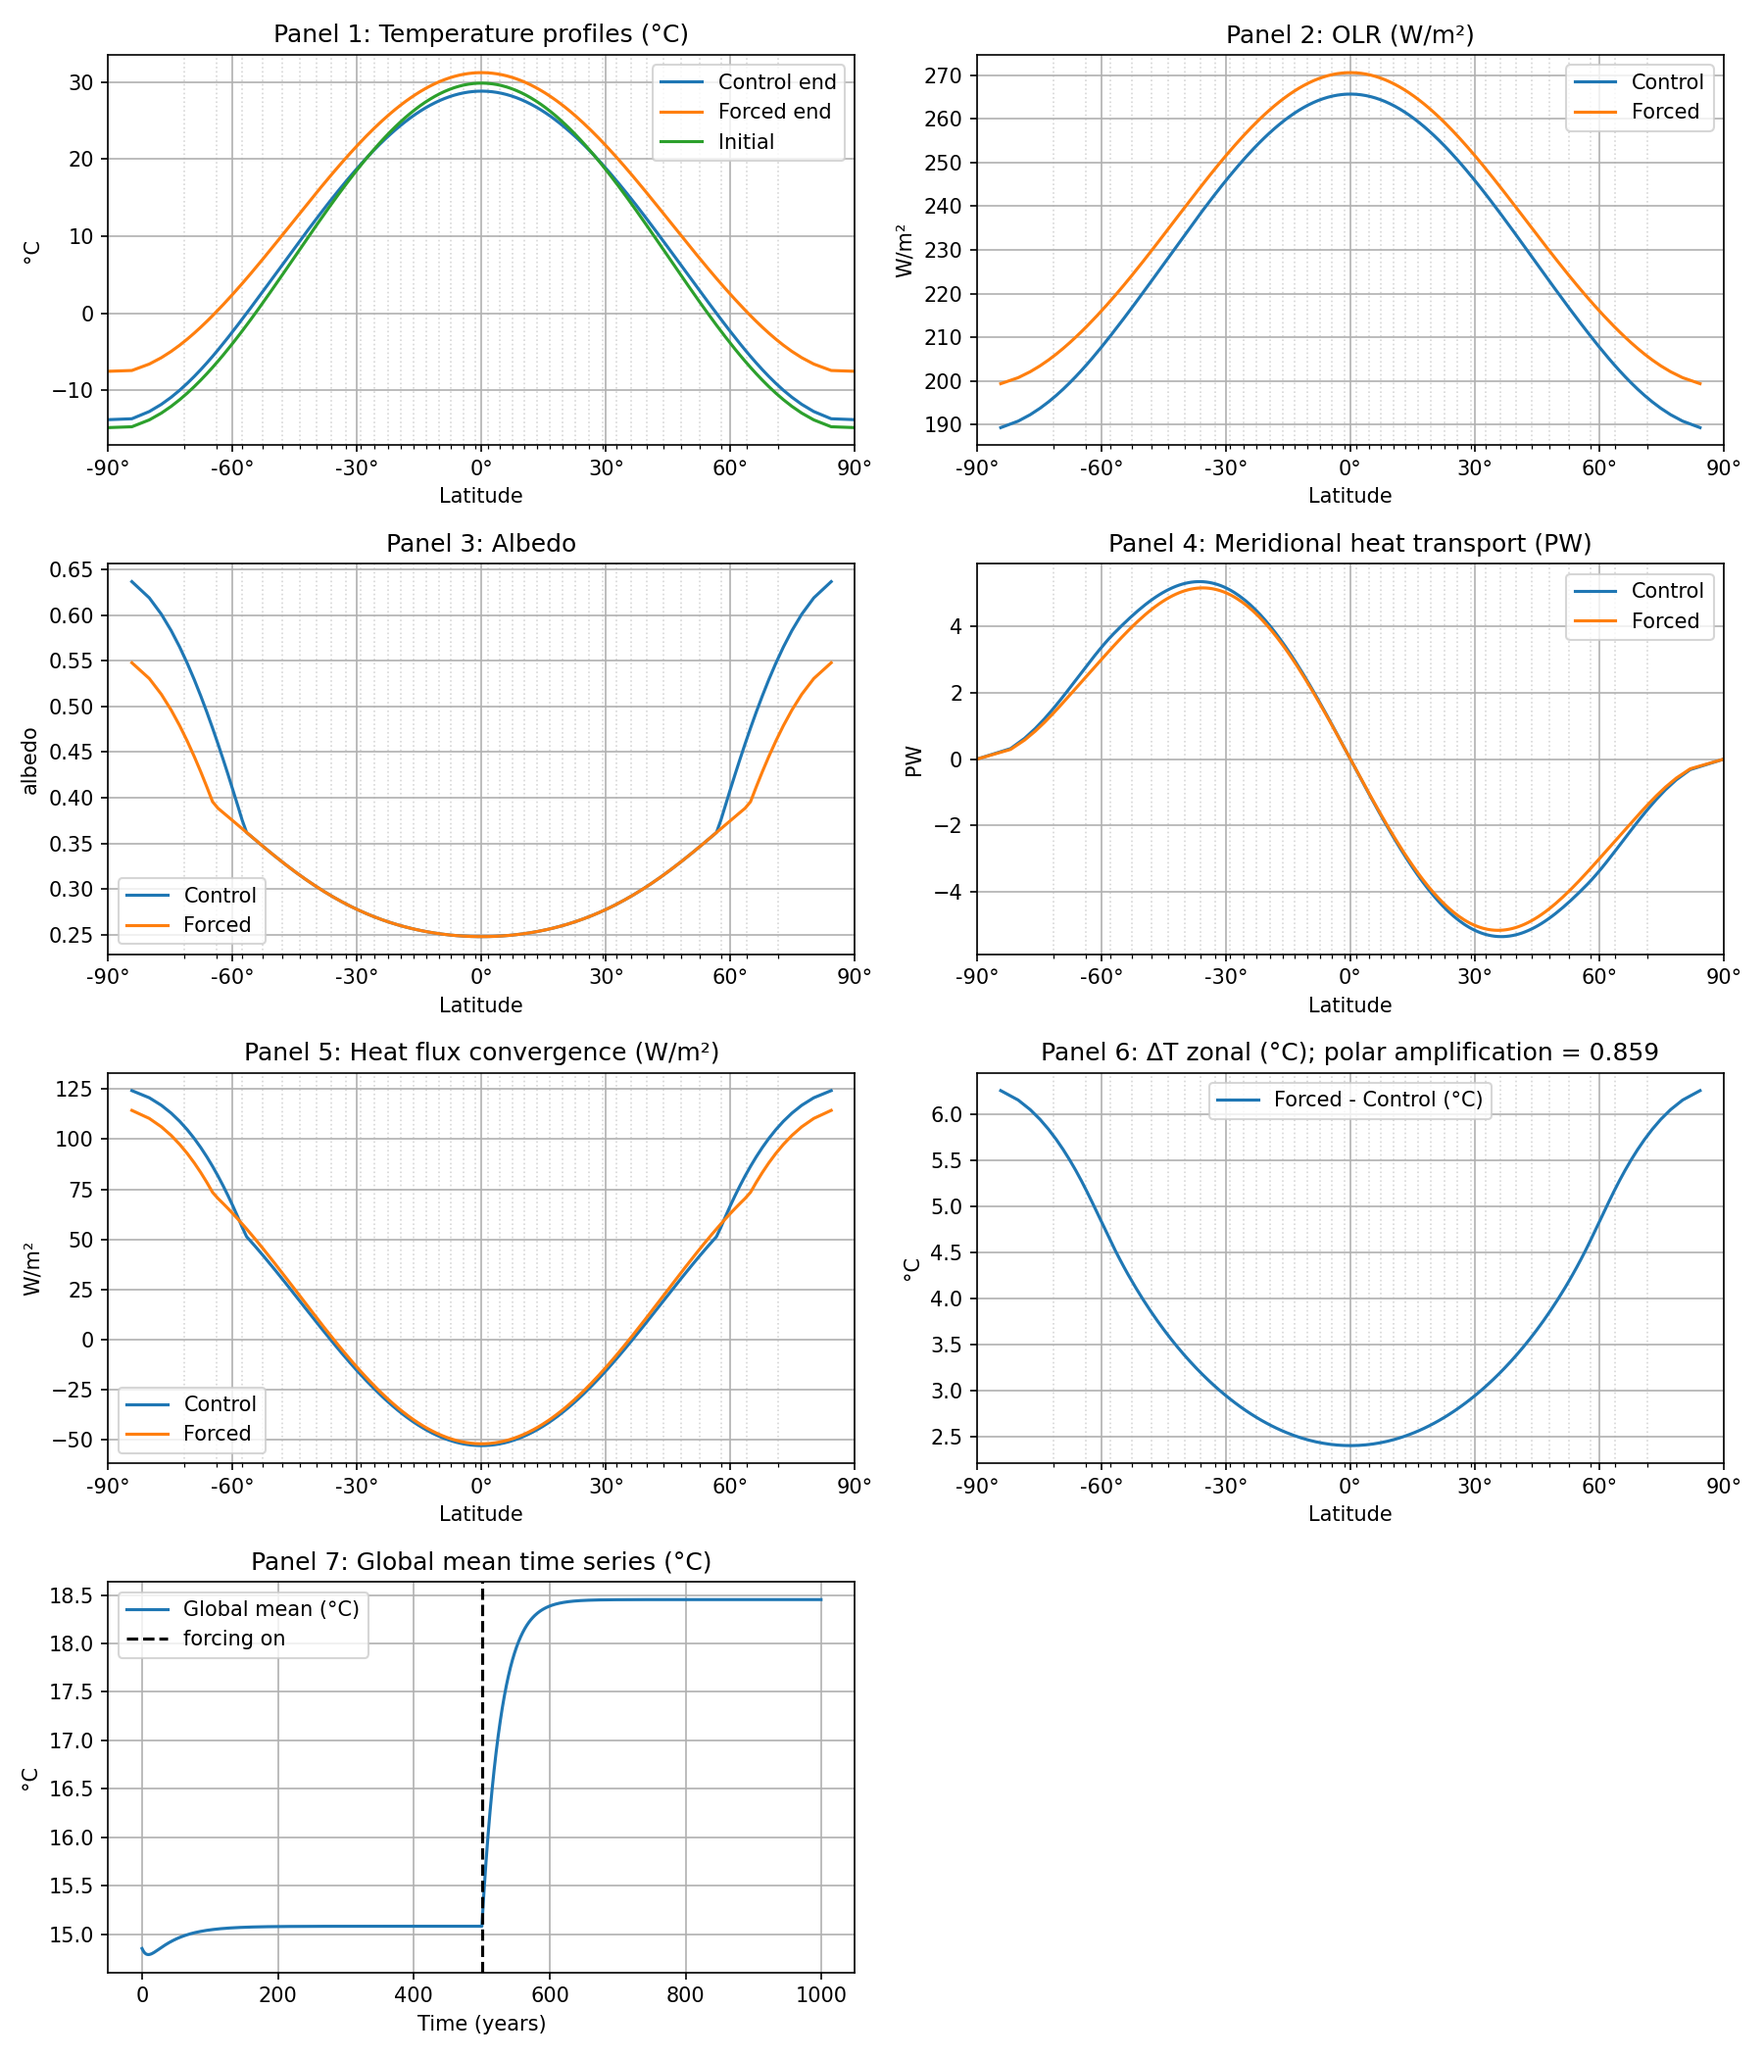
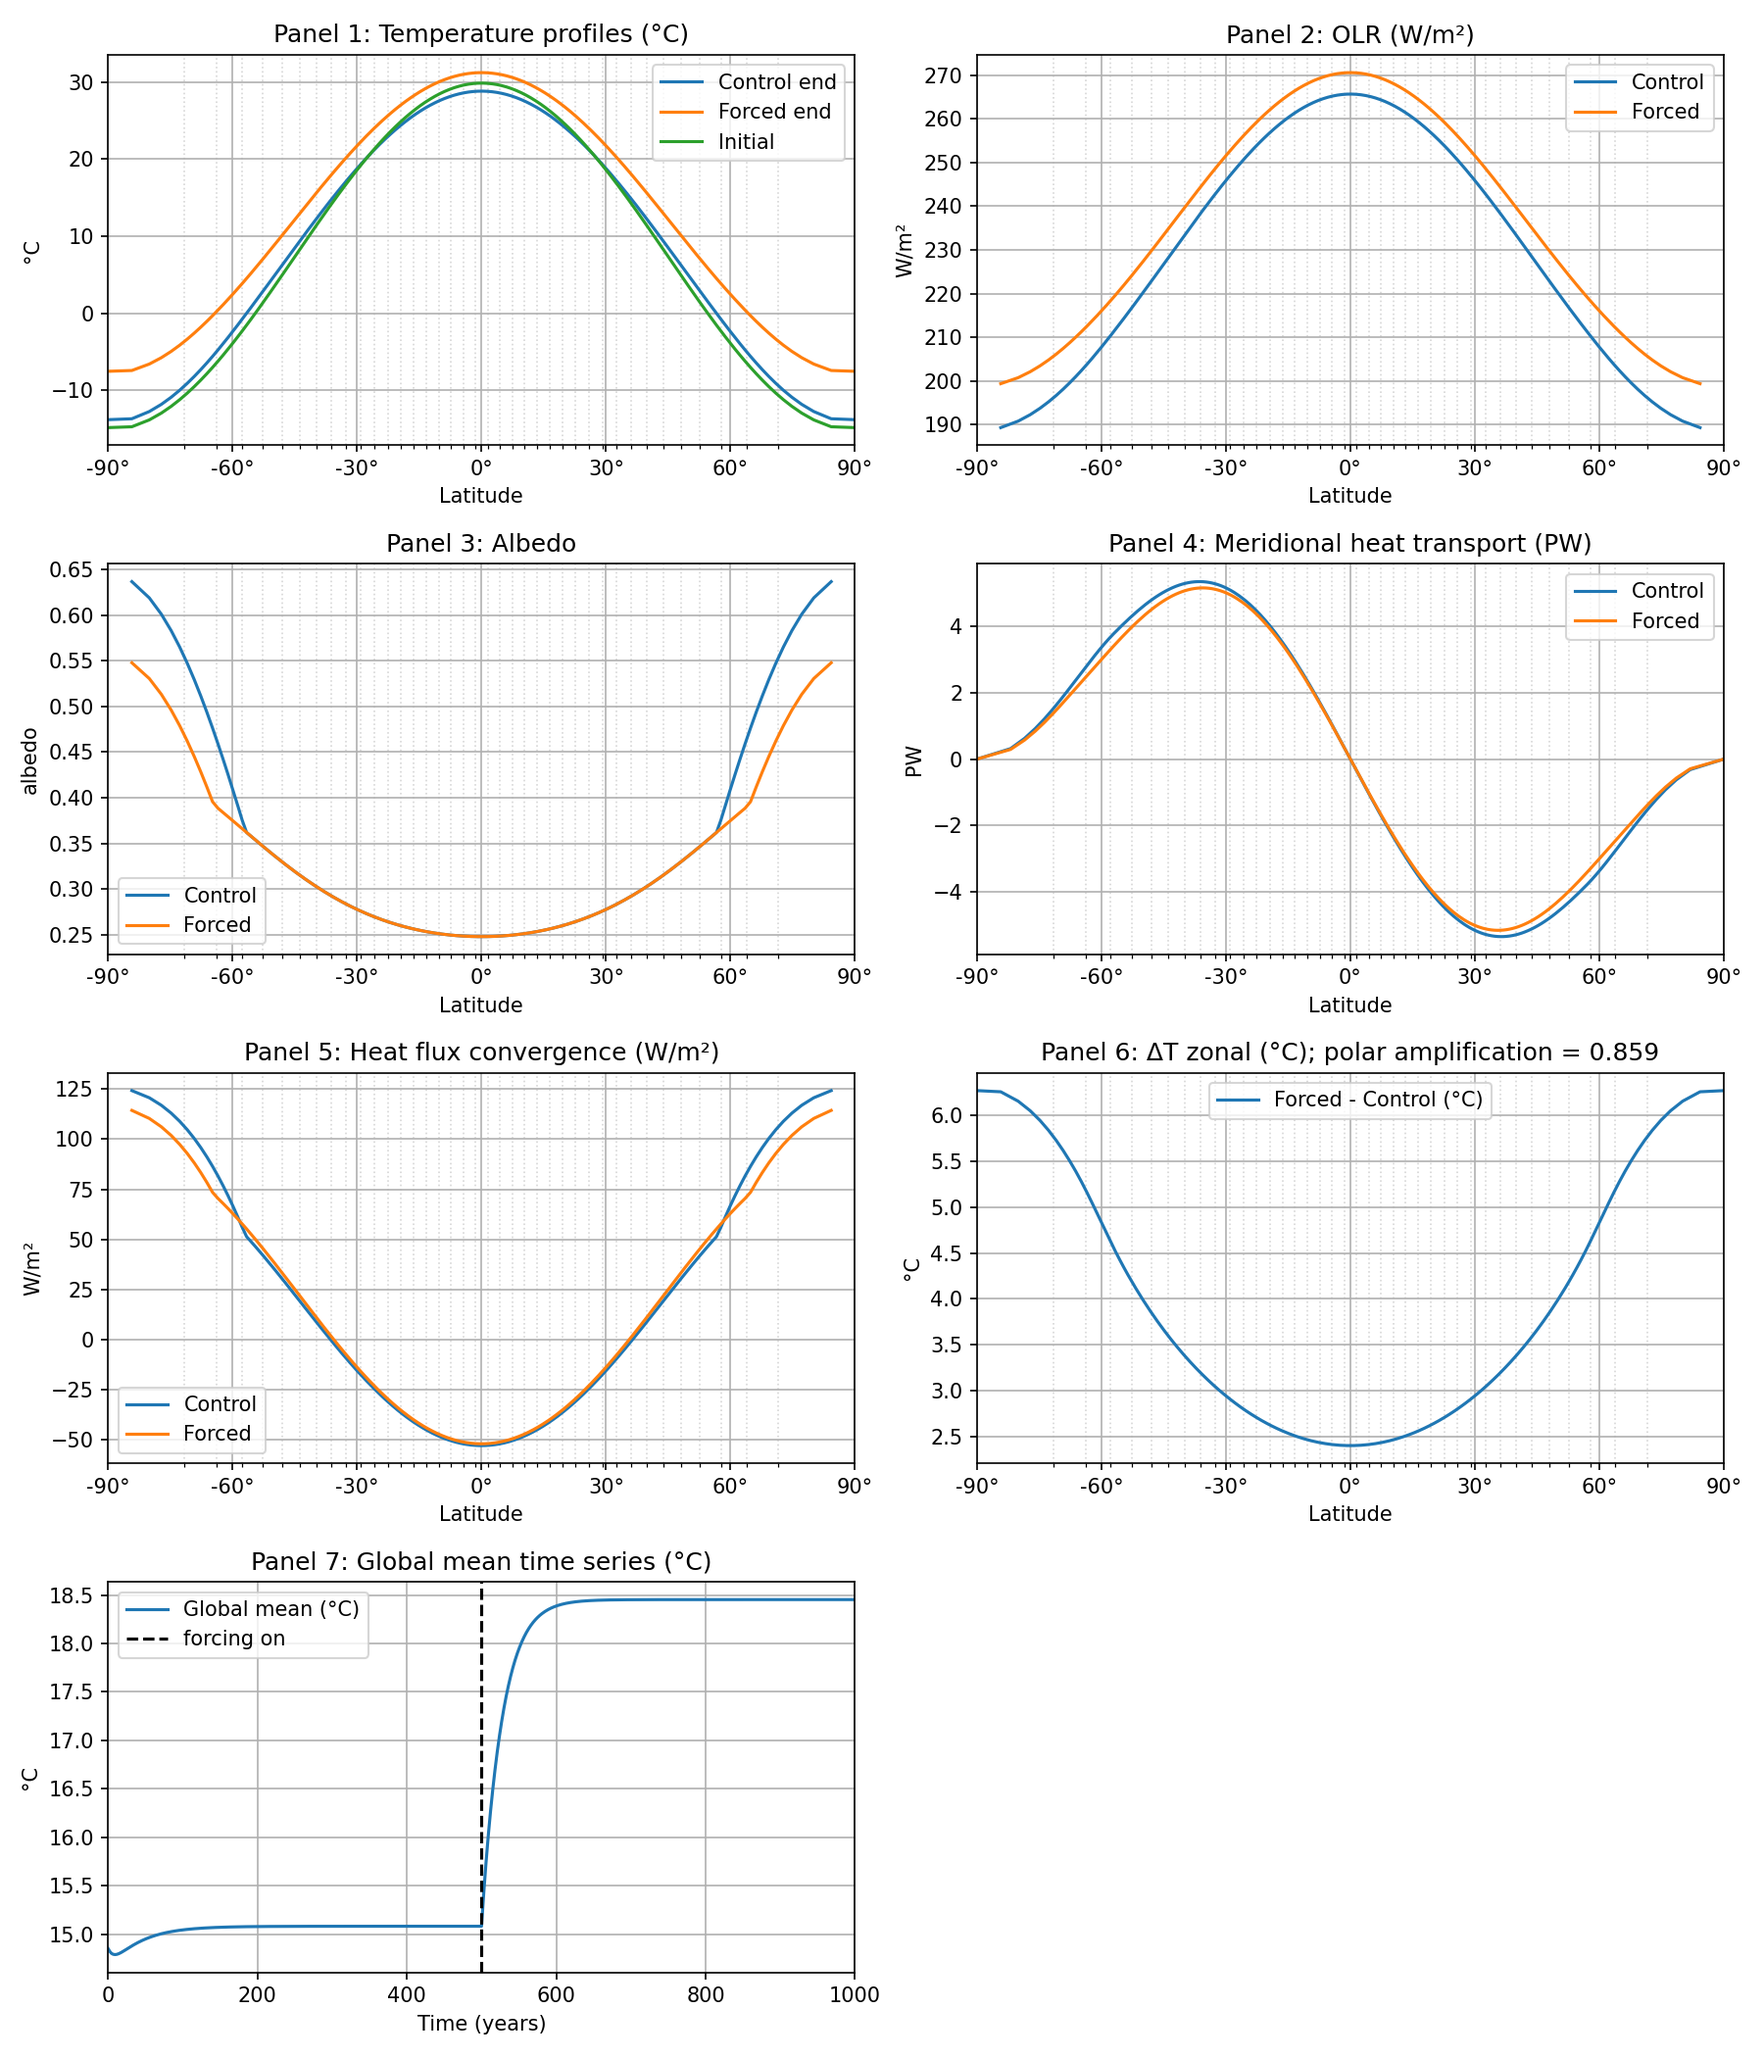
Added function descriptions and made changes to output

diff --git a/ebm.py b/ebm.py
@@ -39,7 +39,12 @@ DELTA_T_MIN = 10.0               # K (lower bound)
 A_PROFILE = 45.0                 # K
 
 # ---------------- Tridiagonal solver ----------------
-def thomas_solve(a, b, c, d):
+def thomas_solve(a, b, c, d): #If to slow, replace with scipy.linalg.solve_banded
+    """Solve tridiagonal system Ax = d with A defined by diagonals a,b,c using Thomas algorithm.
+    a: lower diagonal (length n but a[0] unused)
+    b: main diagonal (length n)
+    c: upper diagonal (length n but c[-1] unused)
+    d: right-hand side (length n)"""
     n = len(d)
     ac, bc, cc, dc = map(np.array, (a, b, c, d))  # make copies to store modified coefficients
     # Forward elimination: modify coefficients
@@ -61,15 +66,15 @@ def Q_x(x, S):
     dx = x[1] - x[0]
     x_left = x - 0.5 * dx
     x_right = x + 0.5 * dx
-    return 0.25 * S * (1.0 - 0.241 * (x_right**3 - x_left**3 - (x_right - x_left)) / (dx))
+    return 0.25 * S * (1.0 - 0.241 * (x_right**3 - x_left**3 - (x_right - x_left)) / dx)
 
 def albedo_from_T(T, x, k1):
-    """Equation (12): effective albedo with ice fraction fi = k1*(273-T) clipped to [0,1]."""
+    """Equation (12): effective albedo with ice fraction f_i = k1*(273-T) clipped to [0,1]."""
     alpha_a = 0.2 + 0.08 * x**2
-    fi = np.clip(k1 * (273.0 - T), 0.0, 1.0)
-    alpha_s = 0.60 * fi + (1.0 - fi) * (0.1 + 0.15 * x**4)
-    Aa = 0.32 * (1.0 - 0.85 * x**2)
-    alpha = alpha_a + alpha_s - alpha_a * alpha_s - Aa * alpha_s
+    f_i = np.clip(k1 * (273.0 - T), 0.0, 1.0)
+    alpha_s = 0.60 * f_i + (1.0 - f_i) * (0.1 + 0.15 * x**4)
+    A_a = 0.32 * (1.0 - 0.85 * x**2)
+    alpha = alpha_a + alpha_s - alpha_a * alpha_s - A_a * alpha_s
     return np.minimum(alpha, 0.7)
 
 def deltaT_of_Ts(Ts, k3):
@@ -78,6 +83,17 @@ def deltaT_of_Ts(Ts, k3):
 
 # ---------------- Diffusion operator L ≈ ∂x[D(1-x²) ∂x] ----------------
 def build_diffusion_tridiag(nx, x, D):
+    """Build tridiagonal representation of diffusion operator L with diffusivity D (W m⁻² K⁻¹) on borders with nx cell points at x = sin(lat).
+
+    Parameters
+        nx: number of cell points
+        x: array of sin(lat) at cell centers (linear spacing)
+        D: diffusivity (W m⁻² K⁻¹)
+
+    Returns
+        a, b, c: lower, main and upper diagonals of L (arrays of length nx)
+            a[0] and c[-1] are unused (=0)
+    """
     dx = x[1] - x[0]
     a = np.zeros(nx); b = np.zeros(nx); c = np.zeros(nx)
 
@@ -87,11 +103,12 @@ def build_diffusion_tridiag(nx, x, D):
     
     # interior contributions
     a[1:] = w_half / dx**2     # lower diagonal
-    c[:-1] = w_half / dx**2      # upper diagonal
-    b = -(a + c)                    # main diagonal
+    c[:-1] = w_half / dx**2    # upper diagonal
+    b = -(a + c)               # main diagonal
     return a, b, c
 
 def apply_L_to_T(a, b, c, T):
+    """Apply diffusion (tri-diagonal) operator L defined by diagonals a,b,c to temperature profile T."""
     out = b * T
     out[1:]  += a[1:] * T[:-1]   # lower diagonal contribution
     out[:-1] += c[:-1] * T[1:]   # upper diagonal contribution
@@ -100,7 +117,7 @@ def apply_L_to_T(a, b, c, T):
 
 # ---------------- Diagnostics helpers ----------------
 def meridional_transport_PW(T, x, D):
-    """Calculate meridional heat transport HMTrans (PW = 10¹⁵ W) from temperature profile T (K) at x = sin(lat) with diffusivity D (W m⁻² K⁻¹)."""
+    """Calculate meridional heat transport HMTrans (PW = 10¹⁵ W) at boundaries from temperature profile T (K) at x = sin(lat) with diffusivity D (W m⁻² K⁻¹)."""
     # dTdx = np.gradient(T, x)
     dTdx = np.r_[0, (T[1:] - T[:-1]) / (x[1] - x[0]), 0]
     x_borders = np.r_[-1, (x[1:] + x[:-1]) / 2, 1]
@@ -111,18 +128,22 @@ def meridional_transport_PW(T, x, D):
 def global_mean(T):
     return np.mean(T)
 
-def poles_temperature(T, x):
+def poles_temperature(T):
     """Return temperature at poles (K) by extrapolation since T is at cell centers. Extrapolates by a quadratic fit with 0 gradient at poles.
     
     Parameters
         T: array of temperatures at cell centers
-        x: array of sin(lat) at cell centers (linear spacing)
         
     Returns
         (T_south, T_north) temperatures at south and north poles (K)"""
-    return (9*T[0] - T[1]) / 8.0, (9*T[-1] - T[-2]) / 8.0
+    return (9*T[0] - T[1]) / 8.0, (9*T[-1] - T[-2]) / 8.0 # Formula can be easily found be Taylor expansion (error is O(dx^3))
 
 def simulation_diagnostics(x, T, params):
+    """Calculate diagnostics from temperature profile T (K) at x = sin(lat) with model parameters params.
+
+    Returns
+        dict: diagnostic values
+    """
     alpha = albedo_from_T(T, x, k1=params['k1'])
     dTloc = deltaT_of_Ts(T, k3=params['k3'])
     olr = SIGMA * (T - dTloc)**4
@@ -131,11 +152,28 @@ def simulation_diagnostics(x, T, params):
     conv = apply_L_to_T(aL, bL, cL, T)     # W/m² (convergence)
     MHTrans_PW = meridional_transport_PW(T, x, D) # PW = 10^15 W
     T_mean = global_mean(T)
-    T_poles = poles_temperature(T, x)
-    return dict(T=T, alpha=alpha, olr=olr, conv=conv, MHTrans_PW=MHTrans_PW, D=D, T_mean=T_mean, T_poles=T_poles)
+    T_poles = poles_temperature(T)
+    Q = Q_x(x, params['S'])
+    return dict(T=T, alpha=alpha, olr=olr, conv=conv, MHTrans_PW=MHTrans_PW, D=D, T_mean=T_mean, T_poles=T_poles, Q=Q)
 
 # ---------------- Single simulation (Crank–Nicolson for diffusion) -----------
 def run_simulation(params, years, nx, dt_years, Tinit=None):
+    """Run EBM simulation with model parameters params for given years, grid points nx and timestep dt_years.
+
+    Parameters
+        params: dict with model parameters k1, k2, k3, D0, T0, S, F
+        years: number of years to run
+        nx: number of grid points
+        dt_years: timestep in years
+        Tinit: initial temperature profile (K) at cell centers (optional, otherwise uses default initial profile)
+
+    Returns
+        dict with keys:
+        x: array of sin(lat) at cell centers
+        Tg: array of global mean temperature time series (°C)
+        T_init, alpha_init, olr_init, conv_init, MHTrans_PW_init, D_init, T_mean_init, T_poles_init: initial diagnostics
+        T_end, alpha_end, olr_end, conv_end, MHTrans_PW_end, D_end, T_mean_end, T_poles_end: end-state diagnostics
+    """
     dx = 2.0 / nx
     x = np.linspace(-1.0 + dx/2, 1.0 - dx/2, nx) # sin(lat) at cell centers
 
@@ -146,15 +184,16 @@ def run_simulation(params, years, nx, dt_years, Tinit=None):
 
     #Initial diagnostics
     init_diag = simulation_diagnostics(x, T, params)
-    init_diag = {key + "_init": value for key, value in init_diag.items()}
+    init_diag = {key + "_init": value for key, value in init_diag.items()} # rename keys
 
 
     dt = dt_years * SECONDS_PER_YEAR
     nsteps = int(round(years / dt_years))
 
     Tg_series = []
+    Tglob = global_mean(T)
 
-    for i in range(nsteps):
+    for _ in range(nsteps):
         # Explicit radiative terms
         Q = Q_x(x, params['S'])
         alpha = albedo_from_T(T, x, params['k1'])
@@ -164,7 +203,6 @@ def run_simulation(params, years, nx, dt_years, Tinit=None):
         rad_term = absorbed - olr + params['F']
 
         # Diffusivity depends on global mean temperature
-        Tglob = global_mean(T)
         D = params['D0'] * max(0.5, 1.0 + params['k2'] * (Tglob - T00))
 
         # Build L and do Crank–Nicolson step
@@ -176,12 +214,13 @@ def run_simulation(params, years, nx, dt_years, Tinit=None):
         bA =  1.0 - 0.5 * coef * bL
         cA = -0.5 * coef * cL
         T = thomas_solve(aA, bA, cA, rhs)
+        Tglob = global_mean(T)
 
         Tg_series.append(Tglob - 273.15)  # °C
 
     # End-state diagnostics
     end_diag = simulation_diagnostics(x, T, params)
-    end_diag = {key + "_end": value for key, value in end_diag.items()}
+    end_diag = {key + "_end": value for key, value in end_diag.items()} # rename keys
 
     return {"x": x, "Tg": np.array(Tg_series), **init_diag, **end_diag}
 
@@ -213,7 +252,7 @@ def main():
 
     # Print model parameters
     print(textwrap.dedent(f"""
-    === EBM Model Parameters ===
+    === EBM Model Parameters =======
     k1 (ice albedo sensitivity) \t: {base['k1']}
     k2 (diffusivity sensitivity)\t: {base['k2']}
     k3 (lapse rate sensitivity) \t: {base['k3']}
@@ -236,8 +275,14 @@ def main():
     # Common axes
     x = ctrl['x']; lat = np.degrees(np.arcsin(x))
 
+    #Extended temperature profiles including poles
+    lat_ext = np.r_[-90, lat, 90]
+    ctrl_T_init_ext = np.r_[ctrl['T_poles_init'][0], ctrl['T_init'], ctrl['T_poles_init'][1]]
+    ctrl_T_end_ext = np.r_[ctrl['T_poles_end'][0], ctrl['T_end'], ctrl['T_poles_end'][1]]
+    forc_T_end_ext = np.r_[forc['T_poles_end'][0], forc['T_end'], forc['T_poles_end'][1]]
+
     # Panel 6 quantities: Δ fields and polar amplification (EXACT as in Jupyter/Fortran here)
-    dT_lat = (forc['T_end'] - ctrl['T_end']) # K
+    dT_lat = forc_T_end_ext - ctrl_T_end_ext # K
     dT_global = (forc['T_mean_end'] - ctrl['T_mean_end'])
     # Polar amplification per earlier implementation: (ΔT_pole - ΔT_global)/ΔT_global
     polar_ampl = np.nan
@@ -249,9 +294,9 @@ def main():
     axs = axs.flatten()
     
     # Panel 1: Temperature profiles (°C)
-    axs[0].plot([-90, *lat, 90], [ctrl['T_poles_end'][0] - 273.15,*ctrl['T_end'] - 273.15, ctrl['T_poles_end'][1] - 273.15], label='Control end')
-    axs[0].plot([-90, *lat, 90], [forc['T_poles_end'][0] - 273.15,*forc['T_end'] - 273.15, forc['T_poles_end'][1] - 273.15], label='Forced end')
-    axs[0].plot([-90, *lat, 90], [ctrl['T_poles_init'][0] - 273.15,*ctrl['T_init'] - 273.15, ctrl['T_poles_init'][1] - 273.15], label='Initial')
+    axs[0].plot(lat_ext, ctrl_T_end_ext - 273.15, label='Control end')
+    axs[0].plot(lat_ext, forc_T_end_ext - 273.15, label='Forced end')
+    axs[0].plot(lat_ext, ctrl_T_init_ext - 273.15, label='Initial')
     axs[0].set_title('Panel 1: Temperature profiles (°C)'); axs[0].set_ylabel('°C')
 
     # Panel 2: OLR (W/m²)
@@ -275,18 +320,18 @@ def main():
     axs[4].set_title('Panel 5: Heat flux convergence (W/m²)'); axs[4].set_ylabel('W/m²')
 
     # Panel 6: Change in zonal mean temperature (°C) + polar amplification
-    axs[5].plot(lat, dT_lat, label='Forced - Control (°C)')
+    axs[5].plot(lat_ext, dT_lat, label='Forced - Control (°C)')
     axs[5].set_title(f'Panel 6: ΔT zonal (°C); polar amplification = {polar_ampl:.3f}')
     axs[5].set_ylabel('°C')
 
     # Panel 7: Global mean time series (°C)
-    Tg_all = np.concatenate([ctrl['Tg'], forc['Tg']])
+    Tg_all = np.r_[global_mean(ctrl['T_init']) - 273.15, ctrl['Tg'], forc['Tg']]
     time_years = np.arange(len(Tg_all)) * args.dt   # convert to years
 
     axs[6].plot(time_years, Tg_all, label='Global mean (°C)')
     axs[6].axvline(len(ctrl['Tg']) * args.dt, color='k', ls='--', label='forcing on')
     axs[6].set_title('Panel 7: Global mean time series (°C)')
-    axs[6].set_xlabel('Time (years)'); axs[6].set_ylabel('°C'); axs[6].legend(); axs[6].grid(True)
+    axs[6].set_xlabel('Time (years)'); axs[6].set_xlim([0, time_years[-1]]); axs[6].set_ylabel('°C'); axs[6].legend(); axs[6].grid(True)
 
     # Hide the 8th panel
     axs[7].axis('off')
@@ -315,14 +360,16 @@ def main():
     Years (control, forced): ({args.years_control}, {args.years_forced})
     Grid points nx: {args.nx}, Δt (years): {args.dt}
 
-    Control global mean T (°C): {ctrl['T_mean_end']-273.15:.3f}
-    Forced  global mean T (°C): {forc['T_mean_end']-273.15:.3f}
-    ΔT global (°C): {dT_global:.3f}
+    Control global mean T (°C): {ctrl['T_mean_end']-273.15:.1f}
+    Forced  global mean T (°C): {forc['T_mean_end']-273.15:.1f}
+    ΔT global (°C): {dT_global:.2f}
 
-    North pole T control / forced (°C): {ctrl['T_poles_end'][1]-273.15:.3f} / {forc['T_poles_end'][1]-273.15:.3f}
-    Polar amplification ( (ΔT_pole - ΔT_global)/ΔT_global ): {polar_ampl:.3f}
+    North pole T control / forced (°C): {ctrl['T_poles_end'][1]-273.15:.1f} / {forc['T_poles_end'][1]-273.15:.1f}
+    North polar amplification ( (ΔT_pole - ΔT_global)/ΔT_global ): {polar_ampl:.3f}
 
-    D_end control / forced (W m⁻² K⁻¹): {ctrl['D_end']:.3f} / {forc['D_end']:.3f}
+    Outgoing longwave radiation (OLR) control / forced (W m⁻²): {ctrl['olr_end'].mean():.0f} / {forc['olr_end'].mean():.0f}
+    Planetary albedo control / forced: {np.average(ctrl['alpha_end'], weights=ctrl['Q_end']):.3f} / {np.average(forc['alpha_end'], weights=forc['Q_end']):.3f}
+    Diffusivity control / forced (W m⁻² K⁻¹): {ctrl['D_end']:.3f} / {forc['D_end']:.3f}
 
     Figure saved: {multi_path}
     """)
